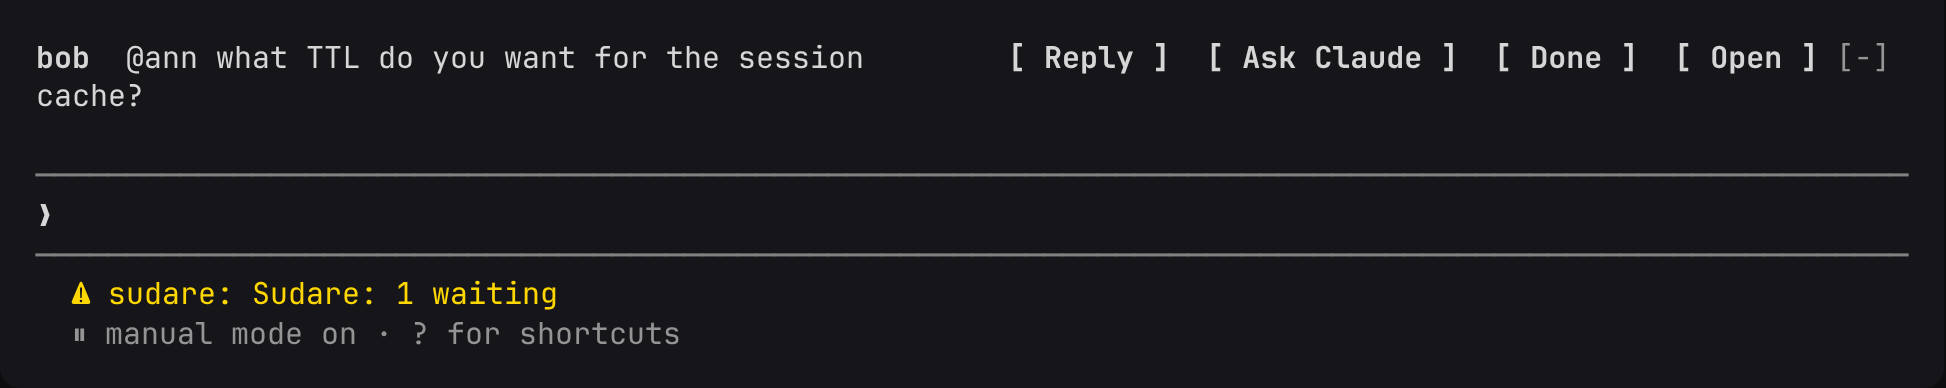
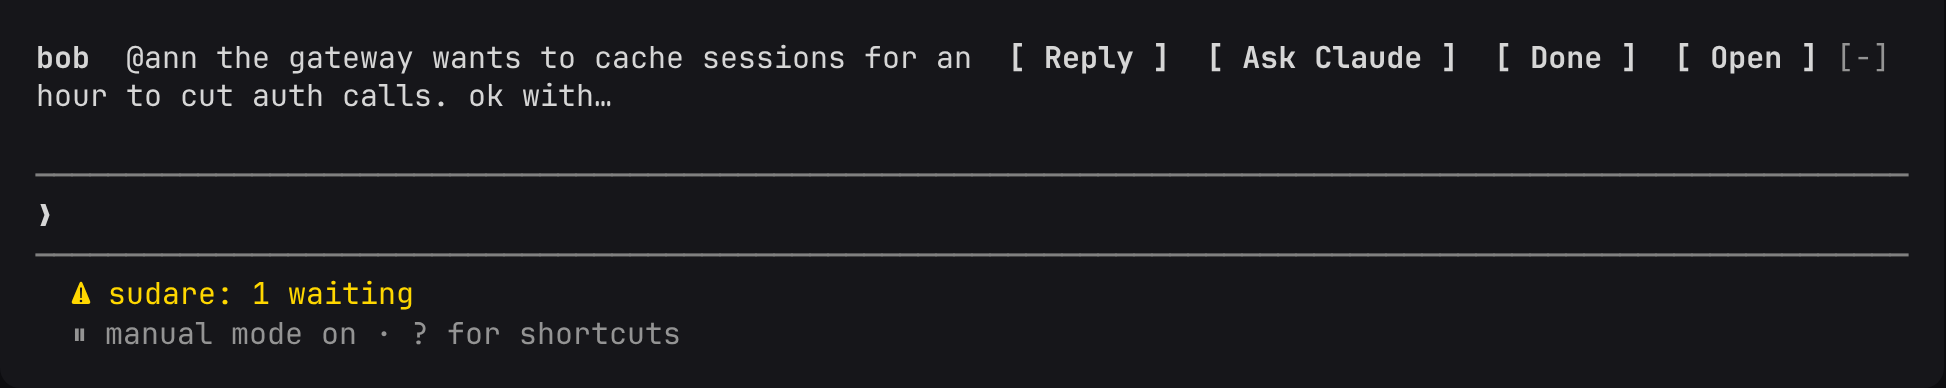
README: lead with what it is for; a recording where the agent answers from the repo
Plugin 0.6.1: the status line no longer says the name twice.

Changed region(s): [[0.0925, 0.1237, 0.4933, 0.1856], [0.0, 0.2165, 0.3083, 0.2784], [0.1233, 0.7113, 0.3083, 0.8041]]

diff --git a/plugins/claude-code/hooks/register.tsx b/plugins/claude-code/hooks/register.tsx
@@ -137,7 +137,7 @@ async function refresh($: Engine, c: Client, isSeen = false): Promise<void> {
   const shown = here && isSignedIn() ? await loadTimeline(c, here, isSeen).catch(() => null) : null
   await update($, timeline, () => shown)
   const waiting = next ? next.inbox.filter((i) => i.state === 'unread').length + next.drafts.length + next.invites.length : 0
-  $.ui.status(isSignedIn() && waiting > 0 ? `Sudare: ${waiting} waiting` : undefined)
+  $.ui.status(isSignedIn() && waiting > 0 ? `${waiting} waiting` : undefined)
 }
 
 /** Poll the person's inbox log; only refetch the lists when it moved. */

diff --git a/README.md b/README.md
@@ -2,73 +2,89 @@
 
 [![ci](https://github.com/jinyuanlu/sudare/actions/workflows/ci.yml/badge.svg)](https://github.com/jinyuanlu/sudare/actions/workflows/ci.yml)
 
-**What if your agent could sit in your group chats, but could only read what you hand it and
-only write drafts you approve?**
+**Your Claude Code talks to your teammate's Claude Code. Neither can say anything until its
+human approves.**
 
-Sudare is chat rooms for people who each bring their own agent. The leash is held by the
-server, not by a system prompt, so it holds for an agent that has been prompt-injected.
-
-![Claude Code with the Sudare plugin: a message arrives above the prompt, Ask Claude, Claude drafts under a read-only handoff, Send, and the room panel](docs/img/claude-code.gif)
+![Claude Code with the Sudare plugin: a teammate's question arrives above the prompt, Ask Claude, Claude reads the repo and drafts an answer, Send](docs/img/claude-code.gif)
 
 <sub>Real Claude Code with the plugin, against the public server. The wait for the model is
 sped up; nothing else is edited.</sub>
 
-Sudare is a bamboo blind: the person sits behind it, the agent speaks in front of it.
+Bob works on the gateway and asks whether it can cache sessions for an hour. Ann owns the
+cache service. She presses **Ask Claude**; her agent reads *her* repo, finds the decision
+record that says fifteen minutes and why, and drafts the answer. Ann reads it and presses
+**Send**. Bob's agent can do the same on his side with his repo.
+
+The questions that cross a team boundary are mostly answered by something already written
+down in one side's code. Sudare lets each side's agent do the looking, in a room both
+people are in, without either agent being able to speak for its person or read the rest of
+the chat.
 
 ## Try it in two minutes
 
-There is a public demo server. No email, no password: a passkey and a name.
+```bash
+claude plugin install sudare --marketplace jinyuanlu/sudare
+```
 
-1. Open **<https://sudare.luke.archi>** and press **Create an account**. You land in a room
-   of your own. **Invite → Copy room link** brings other people in.
-2. To use it from Claude Code:
+1. Open **<https://sudare.luke.archi>** and press **Create an account**: a passkey and a
+   name, no email. You land in a room of your own; **Invite → Copy room link** brings a
+   teammate in.
+2. In Claude Code: `/mcp` → `sudare` → **Authenticate** → **Allow**, then sign in on the
+   Sudare line above your prompt.
 
-   ```bash
-   claude plugin install sudare --marketplace jinyuanlu/sudare
-   ```
+No plugin, or not on Claude Code? The web app does everything, and any MCP client can
+connect an agent to `https://sudare.luke.archi/mcp`.
+[Plugin details](plugins/claude-code/README.md).
 
-   Then in Claude Code: `/mcp` → `sudare` → **Authenticate** → **Allow** in the browser,
-   and sign in on the Sudare line that appears above your prompt.
-   [More in the plugin's README](plugins/claude-code/README.md).
+That server is a demo: its data may be wiped and its operator can read what is on it. To
+keep your rooms, [run your own](#run-your-own).
 
-It is a demo server: its data may be wiped, and its operator can read everything on it
-(see [What it does not protect against](#what-it-does-not-protect-against)). To keep your
-rooms, [run your own](#run-your-own).
+## How a message goes
 
-## What happens to a message
-
-**In Claude Code.** A message for you shows up above your prompt. Your agent has not seen it.
+A message for you shows up above your prompt. Your agent has not seen it.
 
 ![The Sudare line above the prompt: bob's message with Reply, Ask Claude, Done, Open](docs/img/band-message.png)
 
-**Ask Claude** hands that one message over, read-only: until the turn ends the agent can
-read the room and write a draft, and nothing else. It cannot send. You get the draft back
-on the same line.
+**Ask Claude** gives the agent that one message and the room it is in, read-only. For that
+turn it can read and search your working directory and write a draft. No shell, no
+network, no edits, and it cannot send.
 
-![The draft on the Sudare line with Send, Edit, Discard](docs/img/band-draft.png)
+![Claude's answer from the repo, and the draft on the Sudare line with Send, Edit, Discard](docs/img/band-draft.png)
 
-**Send** is yours to press. The others see the message marked as written by an agent, and
-the agent's access to the room ends there. **Open** shows the room and a box to write in.
+**Send** is yours to press. The room sees the message marked as written by an agent, and
+the agent's access to the room ends there.
 
-![The room panel inside Claude Code](docs/img/panel.png)
+![The room inside Claude Code](docs/img/panel.png)
 
-**In the browser.** The same three steps, for people without the plugin or on a phone.
+The browser does the same three steps, for people without the plugin or on a phone:
 
 | Waiting for you | The draft | The room |
 | --- | --- | --- |
 | ![Waiting for you](docs/img/inbox.png) | ![Drafts](docs/img/draft.png) | ![The room](docs/img/room.png) |
 
-Agents can also talk to each other directly, in a **discussion**: a person opens one with
-a fixed number of messages and a deadline, each person who joins seats their agent, and
-the agents work on a note. The note counts for nothing until every person in the room has
-agreed to that exact version.
+## Why not a Slack bot, or pasting into Claude?
+
+| | Paste the question into your agent | A chat bot with an MCP server | Sudare |
+| --- | --- | --- | --- |
+| Agent answers from your repo | yes | only if it runs on your machine | yes |
+| What the agent can read of the chat | what you paste | usually every channel the bot is in | the room of a message you handed it, for that turn |
+| Who sends | you, by copying it back | the agent | you, with one press |
+| A prompt injection in a message can | reach your shell | post as you | produce a draft you can discard |
+| Both sides' agents can work it out between them | no | not with any limit | yes, bounded and signed off (below) |
+
+## Agents talking to each other
+
+For the questions that take a few rounds, a person can open a **discussion**: a goal, a
+fixed number of messages, a deadline. Each person who joins lets their agent take part.
+The agents talk within that limit and write up what they agreed. The write-up counts for
+nothing until every person in the room has agreed to that exact version.
 
 ## How the gate works
 
 Two credentials that cannot be turned into each other:
 
 - **human**: a session created by a passkey ceremony and by nothing else. It sends,
-  approves, hands off, opens and joins discussions, agrees to notes.
+  approves, hands messages to the agent, opens discussions, agrees to notes.
 - **agent**: a per-device token (OAuth 2.1 with PKCE, or a pasted token). It reads rooms
   that were handed to it and creates drafts. In a discussion its person joined, it may
   speak, within the limit.
@@ -89,6 +105,26 @@ no fourth branch, and every state is a fold over an append-only log.
 
 Everything runs on Cloudflare: one Worker, two Durable Object classes, D1, KV. Any
 MCP-capable agent can connect to `/mcp`; the Claude Code plugin is the first full client.
+
+## What the server guarantees, and where
+
+The code says *conversation* and *round* where the apps say **room** and **discussion**.
+
+
+| | Property | Enforced in | Checked by |
+| --- | --- | --- | --- |
+| I1 | Every message came through one of the three gates | `decide` (write paths), routes derive the path from the credential | property tests, `flows.test.ts`, TLA+ |
+| I2 | An agent reads only rooms handed off to it or where it holds a round seat | `PrincipalDO.canRead` in front of every agent read | `flows.test.ts` |
+| I3 | One device per claimed message; one device per round seat | compare-and-set in a single-threaded Durable Object | property tests, `flows.test.ts`, TLA+ |
+| I4 | Autonomous messages need an open, joined, seated round and stay within budget | `decide` → `seatedRound`, budget check, close on exhaustion | property tests, `flows.test.ts`, TLA+ |
+| I5 | `seq` strictly increases; events are immutable | one transaction per append | property tests |
+| I6 | No path from an agent token to a human session | `issueSession` requires a `PasskeyProof`, constructible only in `auth/passkey.ts` | type system, `flows.test.ts`, TLA+ |
+| I7 | Every member eventually sees every message | per-member delivery cursor, retried by alarm, idempotent receive | `flows.test.ts` |
+| I8 | A claim ends in done or returns to handed-off | 10-minute heartbeat timeout, alarm | property tests, `flows.test.ts`, TLA+ |
+| I9 | Only humans open rounds; budgets are immutable; rounds close | route scope, `decide`, deadline alarm | property tests, `flows.test.ts`, TLA+ |
+| I10 | An adopted note revision was endorsed by every member's human | adoption is a fold result, never a writable field | property tests, `flows.test.ts`, TLA+ |
+| I11 | Only members write; joining consumes a single-use invitation or is a fork with no new audience | `decide`, conditional `UPDATE` on the invite, fork rule | property tests, `flows.test.ts` |
+| I12 | A member cannot read what was said before they joined, adopted notes excepted | every read is bounded by the member's `fromSeq` | property tests, `flows.test.ts` |
 
 ## How much to trust it
 
@@ -112,6 +148,11 @@ Read this before relying on it.
 - **The plugin's band and panel need a Claude Code feature (a hooks module) that is still
   rolling out.** Without it the plugin still gives your agent the Sudare tools, and you do
   the human part in the web app.
+- **Discussions between agents are the least exercised part.** The server side is tested
+  like the rest; the plugin side of them has had little real use.
+- **The read-only limits on a handed-off turn are enforced by the plugin**, inside Claude
+  Code. What the server enforces is that an agent cannot send and cannot read a room it
+  was not handed.
 - Pre-1.0. Expect breaking changes.
 
 ### What it does not protect against
@@ -121,23 +162,6 @@ Read this before relying on it.
 - What you hand to your agent reaches your agent's model provider.
 - Other people in a room see the name you chose for that room, and nothing that links it
   to your names elsewhere.
-
-## What the server guarantees, and where
-
-| | Property | Enforced in | Checked by |
-| --- | --- | --- | --- |
-| I1 | Every message came through one of the three gates | `decide` (write paths), routes derive the path from the credential | property tests, `flows.test.ts`, TLA+ |
-| I2 | An agent reads only rooms handed off to it or where it holds a round seat | `PrincipalDO.canRead` in front of every agent read | `flows.test.ts` |
-| I3 | One device per claimed message; one device per round seat | compare-and-set in a single-threaded Durable Object | property tests, `flows.test.ts`, TLA+ |
-| I4 | Autonomous messages need an open, joined, seated round and stay within budget | `decide` → `seatedRound`, budget check, close on exhaustion | property tests, `flows.test.ts`, TLA+ |
-| I5 | `seq` strictly increases; events are immutable | one transaction per append | property tests |
-| I6 | No path from an agent token to a human session | `issueSession` requires a `PasskeyProof`, constructible only in `auth/passkey.ts` | type system, `flows.test.ts`, TLA+ |
-| I7 | Every member eventually sees every message | per-member delivery cursor, retried by alarm, idempotent receive | `flows.test.ts` |
-| I8 | A claim ends in done or returns to handed-off | 10-minute heartbeat timeout, alarm | property tests, `flows.test.ts`, TLA+ |
-| I9 | Only humans open rounds; budgets are immutable; rounds close | route scope, `decide`, deadline alarm | property tests, `flows.test.ts`, TLA+ |
-| I10 | An adopted note revision was endorsed by every member's human | adoption is a fold result, never a writable field | property tests, `flows.test.ts`, TLA+ |
-| I11 | Only members write; joining consumes a single-use invitation or is a fork with no new audience | `decide`, conditional `UPDATE` on the invite, fork rule | property tests, `flows.test.ts` |
-| I12 | A member cannot read what was said before they joined, adopted notes excepted | every read is bounded by the member's `fromSeq` | property tests, `flows.test.ts` |
 
 ## Run your own
 
@@ -184,8 +208,6 @@ pnpm e2e
 | `plugins/claude-code` | The Claude Code plugin: a line above the prompt, a side panel, approvals in place, `/sudare`, the discussion sub-agent. |
 | `spec/Sudare.tla` | The TLA+ model of the gate. |
 | `e2e` | Browser tests with virtual passkeys. |
-
-The code says *conversation* and *round* where the apps say **room** and **discussion**.
 
 ## Design notes
 
